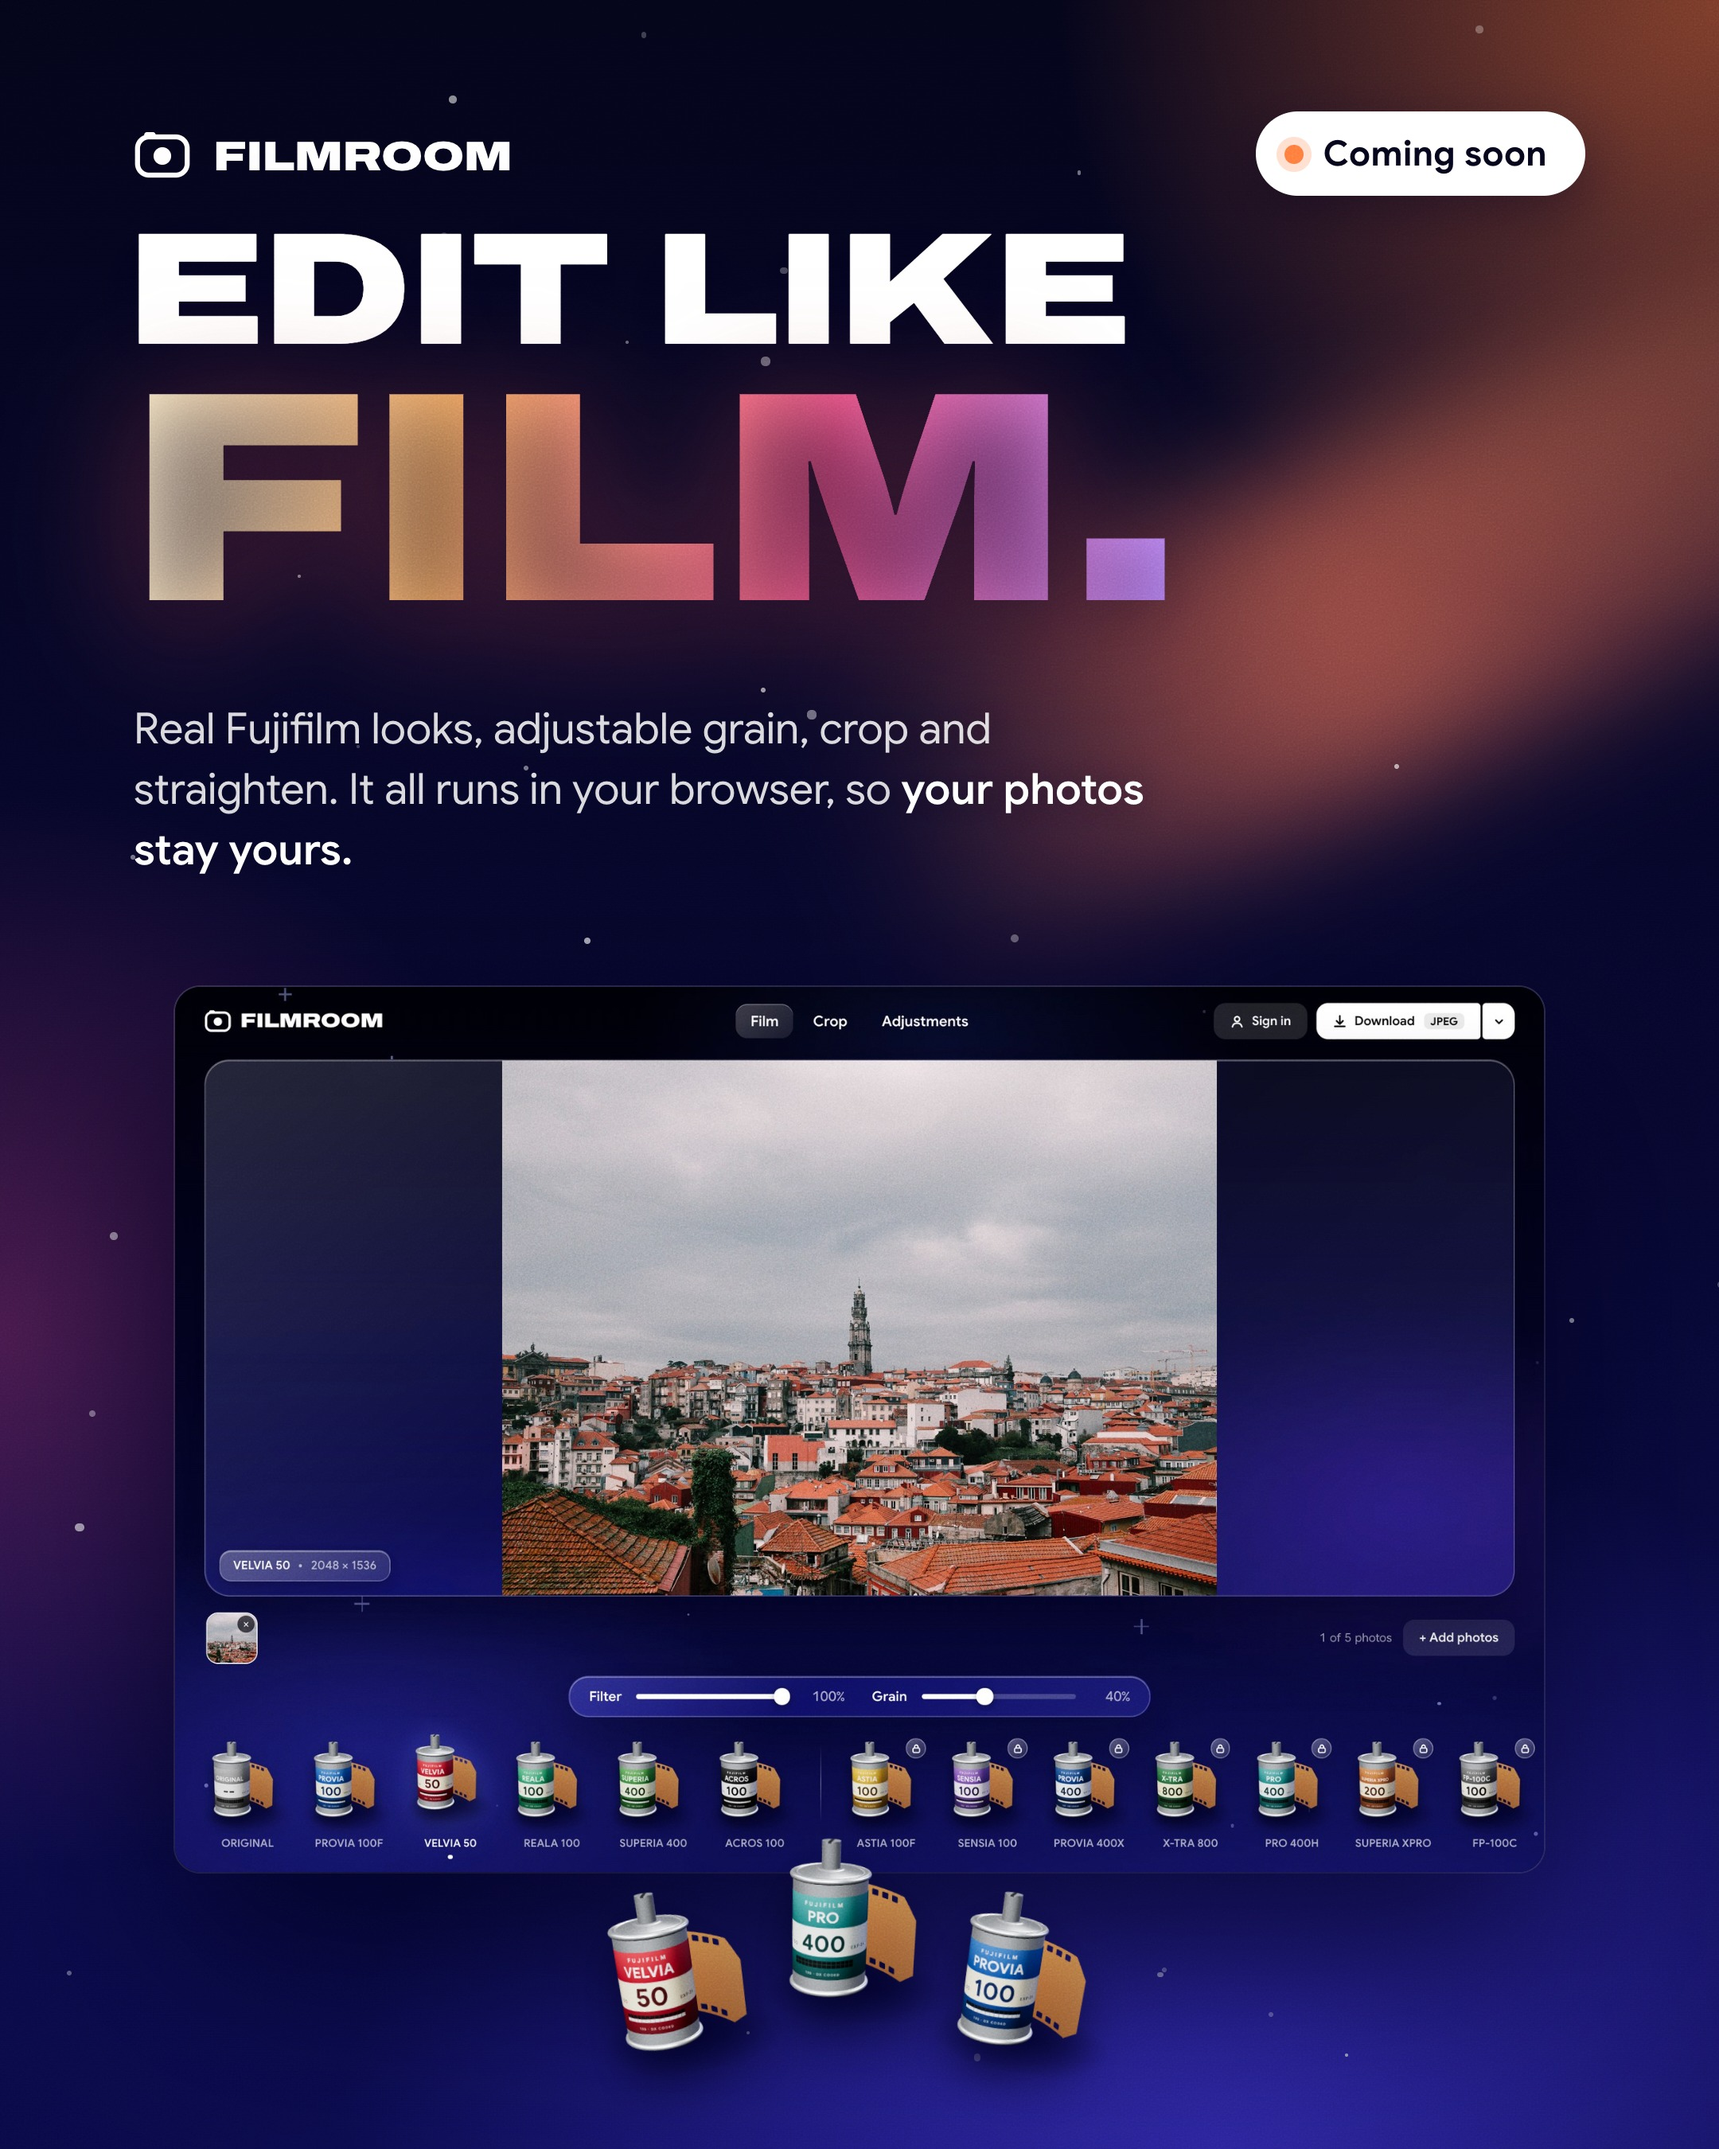
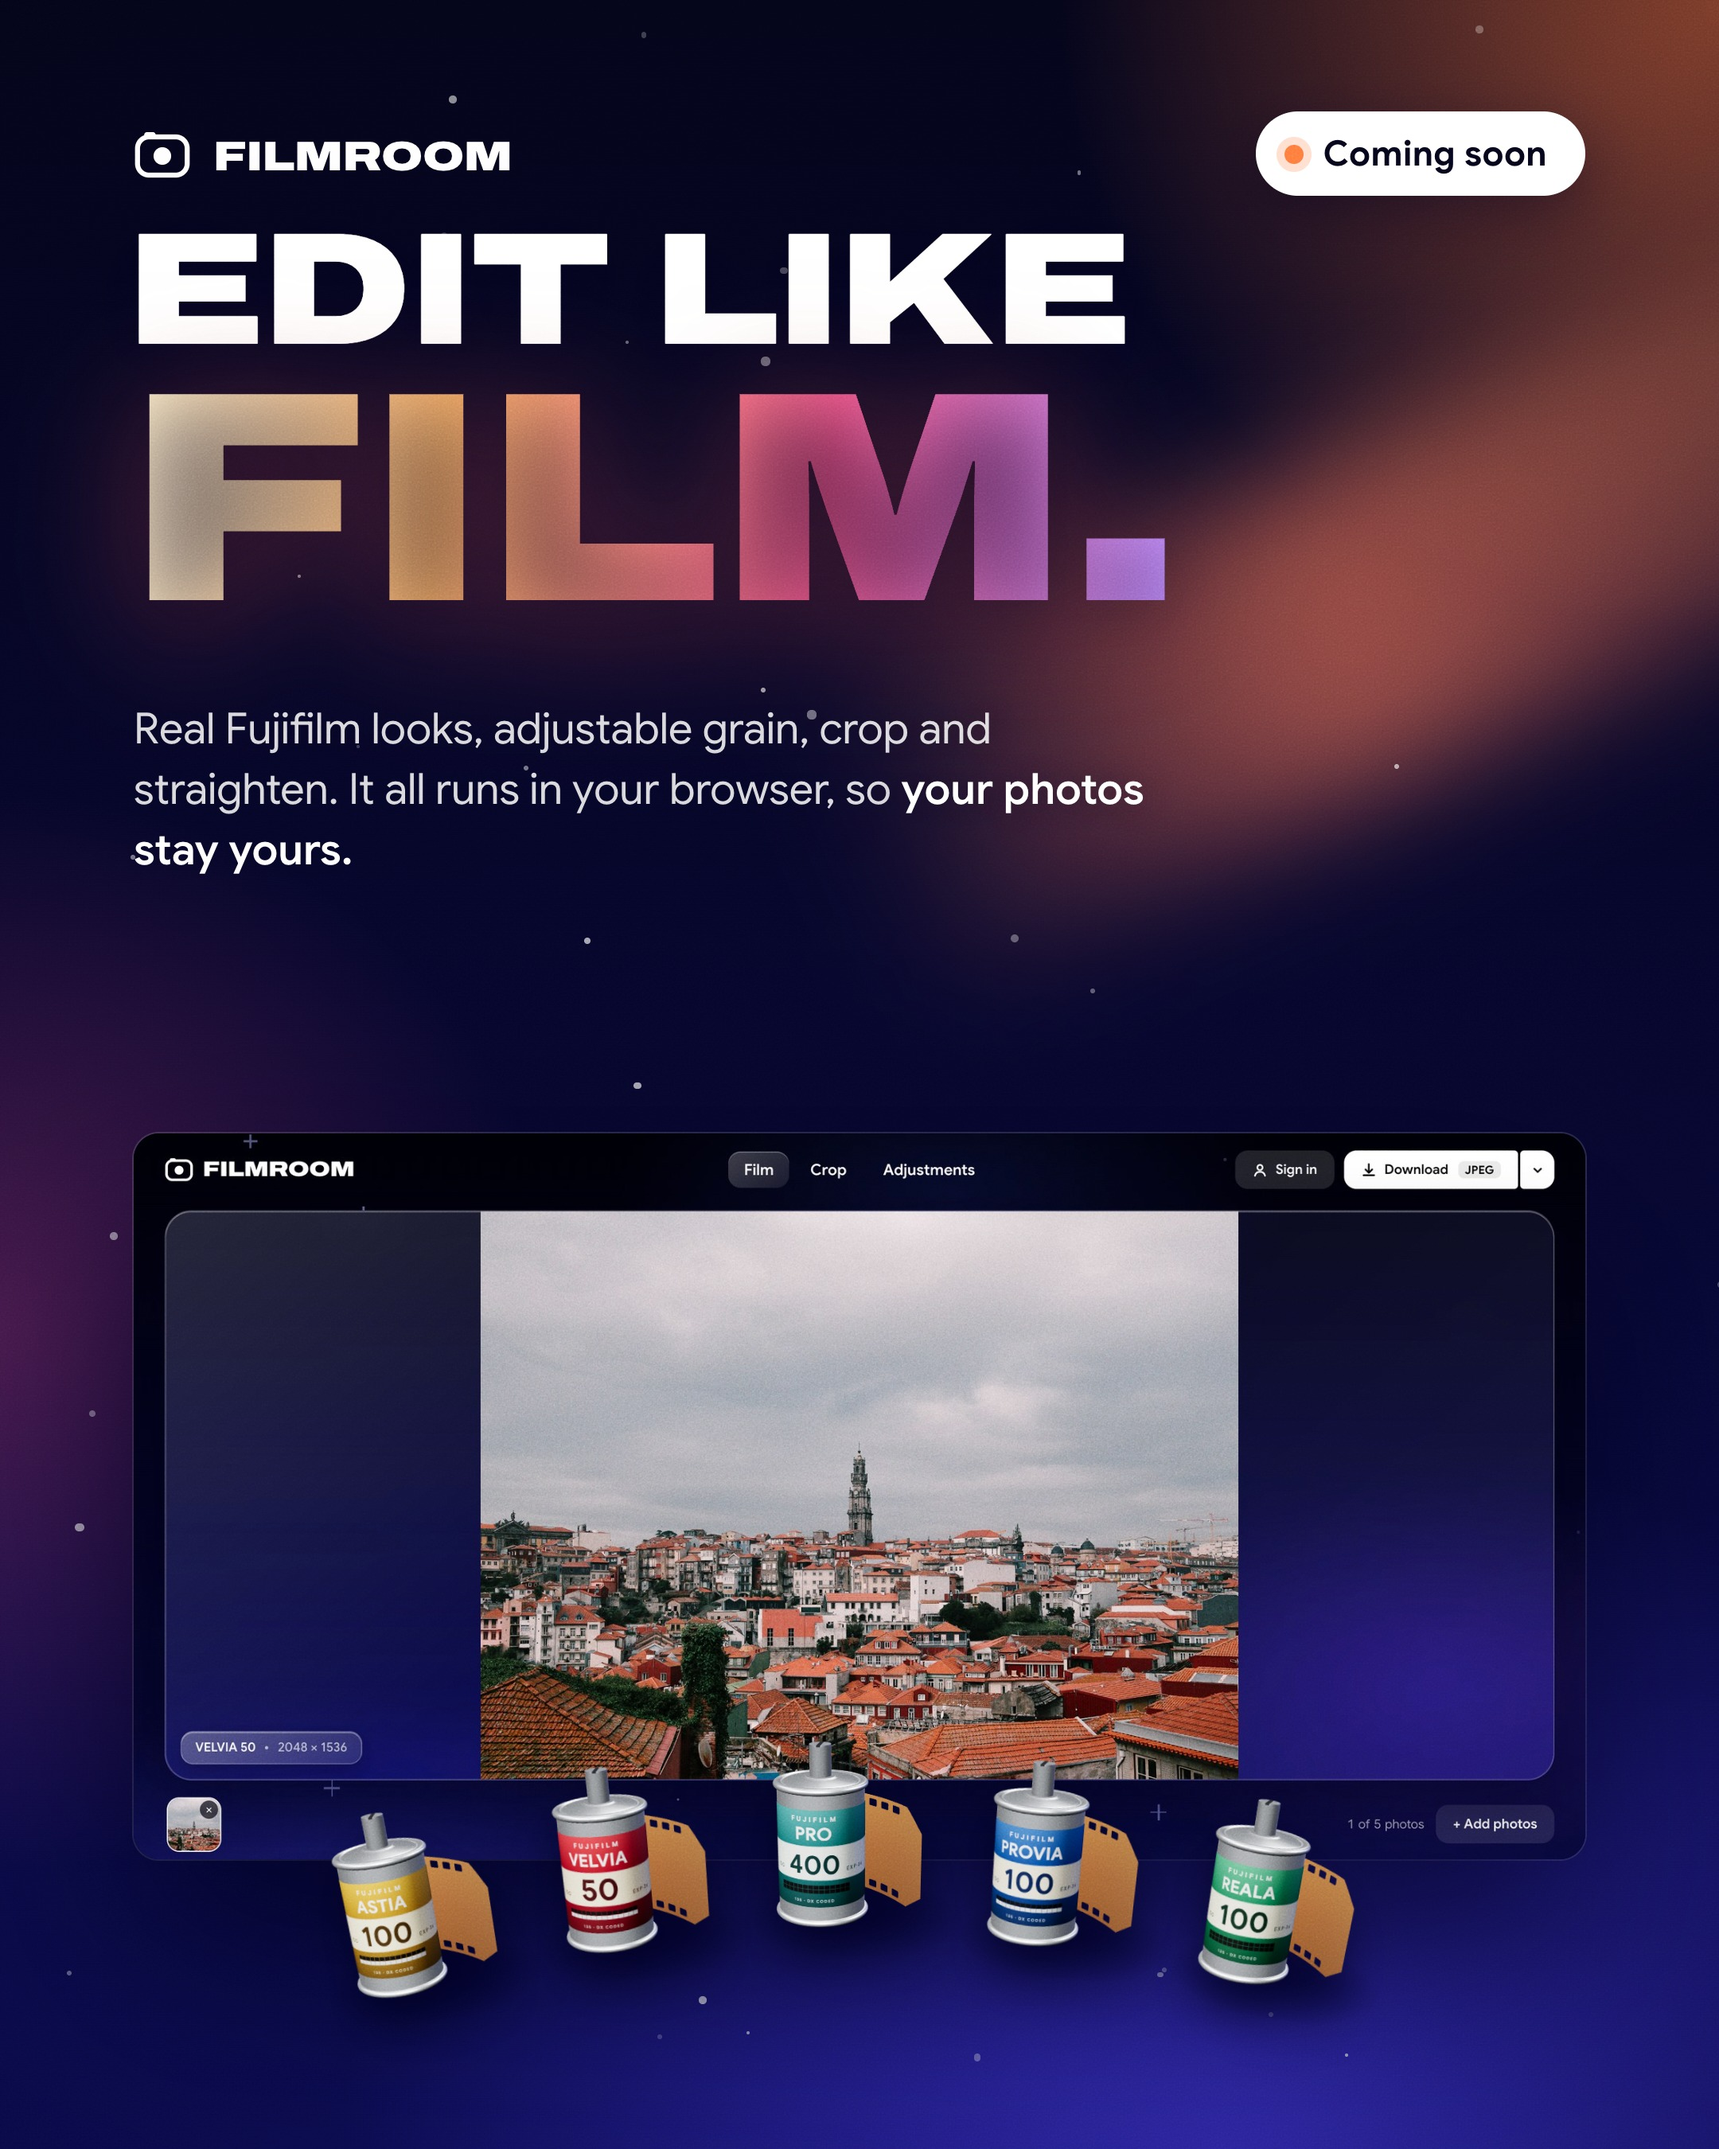
Poster: crop the shelf from the screenshot, five floating rolls over it, equal top/bottom padding

Changed region(s): [[0.062, 0.4356, 0.9306, 0.9956]]

diff --git a/poster/index.html b/poster/index.html
@@ -51,16 +51,16 @@
   .portrait h1 .l1 { font-size:100px; } .portrait h1 .l2 { font-size:188px; margin-top:8px; }
   .portrait .sub { left:84px; top:440px; width:640px; font-size:27px; }
   .portrait .pill { right:84px; top:70px; }
-  .portrait .appwin { left:110px; top:620px; width:860px; }
+  .portrait .appwin { left:84px; top:712px; width:912px; }
   .portrait .leak.a { width:800px; height:200px; right:-240px; top:260px; }
   /* ===== landscape 1600 x 900 ===== */
   .landscape { width:1600px; height:900px; }
-  .landscape .brand { left:96px; top:84px; }
-  .landscape h1 { left:92px; top:146px; }
+  .landscape .brand { left:96px; top:140px; }
+  .landscape h1 { left:92px; top:202px; }
   .landscape h1 .l1 { font-size:88px; } .landscape h1 .l2 { font-size:164px; margin-top:6px; }
-  .landscape .sub { left:96px; top:420px; width:520px; font-size:25px; }
-  .landscape .pill { left:96px; top:650px; }
-  .landscape .appwin { left:704px; top:130px; width:800px; }
+  .landscape .sub { left:96px; top:476px; width:520px; font-size:25px; }
+  .landscape .pill { left:96px; top:706px; }
+  .landscape .appwin { left:700px; top:205px; width:820px; }
   .landscape .leak.a { width:800px; height:200px; right:-200px; top:110px; }
 </style>
 </head>
@@ -86,9 +86,10 @@ const W = layout === 'portrait' ? 1080 : 1600, H = layout === 'portrait' ? 1350 
 
 // ---- a few rolls floating over the bottom edge of the screenshot ----
 const carts = document.getElementById('carts');
-const ROLLS = layout === 'portrait'
-  ? [{ id:'velv', x:372, y:1172, w:120, r:-8 }, { id:'400h', x:482, y:1142, w:120, r:2 }, { id:'prov', x:592, y:1178, w:116, r:9 }]
-  : [{ id:'velv', x:962, y:658, w:124, r:-8 }, { id:'400h', x:1072, y:626, w:124, r:2 }, { id:'prov', x:1178, y:664, w:118, r:9 }];
+// five rolls in a gentle arc, the middle one highest, lifted so they overlap the screenshot's bottom edge
+const ORDER = ['asti', 'velv', '400h', 'prov', 'real'], LIFT = [40, 14, 0, 14, 40];
+const G = layout === 'portrait' ? { cx:540, step:136, w:140, top:1078 } : { cx:1110, step:112, w:118, top:525 };
+const ROLLS = ORDER.map((id, k) => ({ id, x:G.cx + (k - 2) * G.step - G.w / 2, y:G.top + LIFT[k], w:G.w, r:(k - 2) * 5 }));
 ROLLS.forEach(c => { const im = new Image(); im.src = `art/${c.id}.webp`; im.alt = ''; im.style.cssText = `width:${c.w}px;left:${c.x}px;top:${c.y}px;transform:rotate(${c.r}deg)`; carts.appendChild(im); });
 
 // ---- a few stars ----
